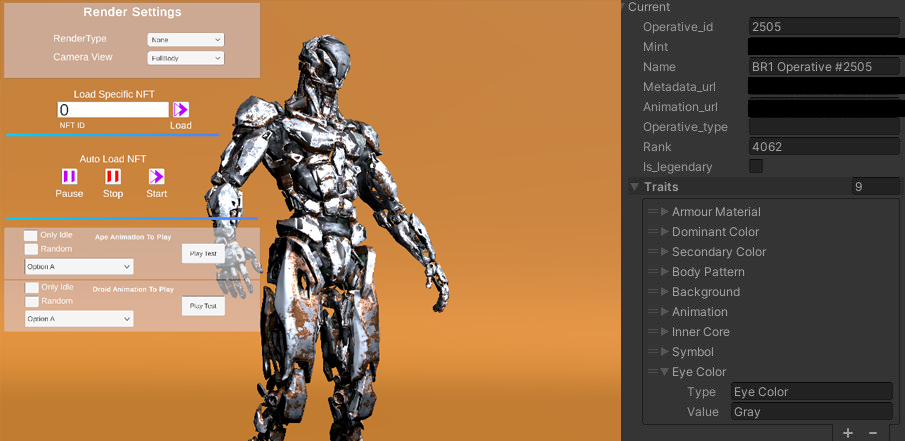
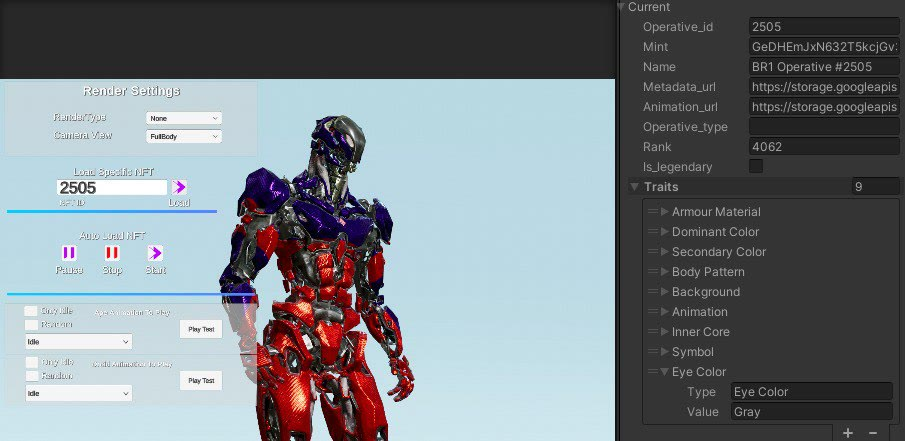
Add files via upload

diff --git a/index.html b/index.html
@@ -9,6 +9,12 @@
   <meta property="og:title" content="Jorge Negreiros — Senior Unity Developer">
   <meta property="og:description" content="Games, VR, multiplayer systems, interactive installations and Unity tooling built with Unity and C#.">
   <meta property="og:type" content="website">
+  <meta property="og:url" content="https://jorg3n3gr3iros.github.io/">
+  <meta property="og:image" content="https://jorg3n3gr3iros.github.io/assets/header-invector.jpg">
+  <meta name="twitter:card" content="summary_large_image">
+  <meta name="twitter:title" content="Jorge Negreiros — Senior Unity Developer">
+  <meta name="twitter:description" content="Games, VR, multiplayer systems, interactive installations and Unity tooling.">
+  <meta name="twitter:image" content="https://jorg3n3gr3iros.github.io/assets/header-invector.jpg">
   <link rel="preconnect" href="https://fonts.googleapis.com">
   <link rel="preconnect" href="https://fonts.gstatic.com" crossorigin>
   <link
@@ -1411,20 +1417,20 @@
     <div class="wrap">
       <div class="highlight-grid reveal">
         <div class="highlight">
-          <b>12+ years</b>
-          <span>Unity / C# production experience</span>
-        </div>
-        <div class="highlight">
           <b>Multiplayer</b>
-          <span>Gameplay, networking and live systems</span>
+          <span>Gameplay, networking and live game systems</span>
         </div>
         <div class="highlight">
           <b>VR &amp; sensors</b>
-          <span>Meta Quest, Kinect, RFID and events</span>
+          <span>Meta Quest, Kinect, RFID and event installs</span>
         </div>
         <div class="highlight">
-          <b>Co-founder</b>
-          <span>Invector Unity tools and templates</span>
+          <b>Tools &amp; pipelines</b>
+          <span>Unity editor tools and automated asset pipelines</span>
+        </div>
+        <div class="highlight">
+          <b>Shipped &amp; live</b>
+          <span>From competitive titles to Asset Store tools</span>
         </div>
       </div>
     </div>
@@ -1535,7 +1541,7 @@
         <div class="tl-item reveal">
           <div class="tl-period">2023 — 2026</div>
           <div class="tl-role">Senior Developer</div>
-          <div class="tl-company"><b>Bravo Ready</b> · BR1 Infinity (Unity, multiplayer)</div>
+          <div class="tl-company"><b>Bravo Ready</b> · BR1 Infinity (Unity, multiplayer) · ongoing technical support</div>
           <div class="tl-list tags">
             <span class="tag">Game mechanics</span><span class="tag">Multiplayer integration</span>
             <span class="tag">Game-design tools</span><span class="tag">API integration</span>
@@ -1544,8 +1550,8 @@
           </div>
         </div>
         <div class="tl-item reveal">
-          <div class="tl-period">10+ YEARS</div>
-          <div class="tl-role">Senior Developer</div>
+          <div class="tl-period">2013 — Present</div>
+          <div class="tl-role">Senior Developer · Freelance</div>
           <div class="tl-company"><b>Nova Interativa</b> · Advergames &amp; interactive applications</div>
           <div class="tl-list tags">
             <span class="tag">Interactive games (PC · Android · VR)</span><span class="tag">Kinect</span>
@@ -1553,7 +1559,7 @@
           </div>
         </div>
         <div class="tl-item reveal">
-          <div class="tl-period">10+ YEARS</div>
+          <div class="tl-period">2015 — Present</div>
           <div class="tl-role">Co-founder</div>
           <div class="tl-company"><b>Invector</b> · Reusable Unity tools &amp; templates</div>
           <div class="tl-list tags">
@@ -1801,10 +1807,12 @@
   <footer>
     <div class="foot-inner">
       <span>© 2026 Jorge Negreiros — Senior Unity Developer</span>
-      <span>Built with Unity-grade attention to detail.</span>
-      <span style="display:inline-flex;align-items:center;gap:7px;color:var(--accent)"><span
-          style="width:7px;height:7px;border-radius:50%;background:var(--accent);box-shadow:0 0 8px var(--accent)"></span>Portfolio
-        in progress · Last release June 2026</span>
+      <span style="display:inline-flex;align-items:center;gap:16px;flex-wrap:wrap;justify-content:flex-end">
+        <span>Built with Unity-grade attention to detail.</span>
+        <span style="display:inline-flex;align-items:center;gap:7px;color:var(--accent)"><span
+            style="width:7px;height:7px;border-radius:50%;background:var(--accent);box-shadow:0 0 8px var(--accent)"></span>Portfolio
+          in progress · Last release June 2026</span>
+      </span>
     </div>
   </footer>
 